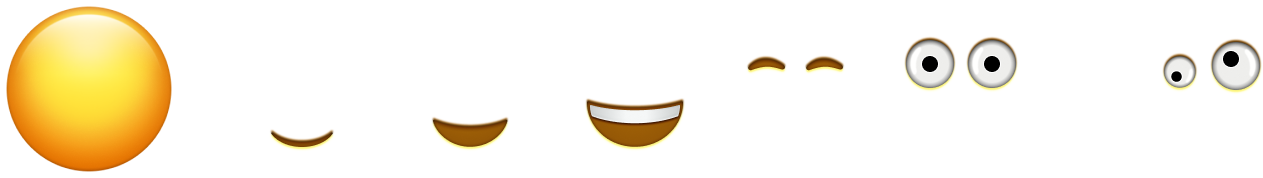
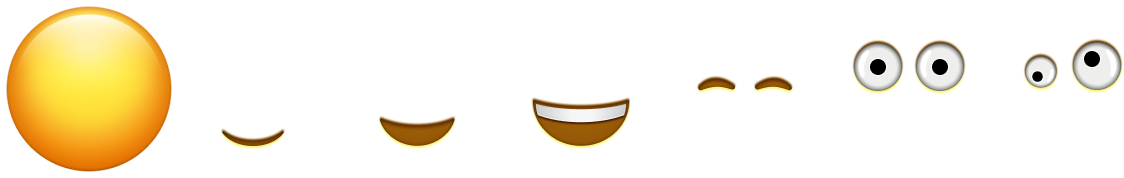
added

diff --git a/index.html b/index.html
@@ -2,61 +2,229 @@
 <html lang="en" dir="ltr">
   <head>
     <meta charset="utf-8">
-    <title></title>
+    <title>Emojis</title>
   </head>
   <style media="screen">
-  .emoji {
-    width: 172px;
-    height: 172px;
+  .emoji1 {
+    width: 178px;
+    height: 178px;
     display: inline-block;
     position: relative;
     background: url('images/e1.png');
   }
-  .emoji-m {
-    width: 160px;
-    height: 160px;
+  .emoji-m1 {
+    width: 178px;
+    height: 178px;
     display: block;
     position: absolute;
     left: 0;
     top: 0;
     background: url('images/e1.png');
-    background-position: -160px top;
+    background-position: -178px top;
   }
-  .emoji-e {
-    width: 160px;
-    height: 160px;
+  .emoji-e1 {
+    width: 178px;
+    height: 178px;
     display: block;
     position: absolute;
     background: url('images/e1.png');
     left: 0;
     top: 0;
-    background-position: -640px top;
+    background-position: -656px top;
   }
-  .smile {
+  .smile1 {
     animation: smile 1s steps(1) alternate infinite;
   }
-  .blink {
+  .blink1 {
     animation: blink 1s steps(1) alternate infinite;
   }
-  .emoji:hover .blink, .emoji:hover .smile {
+  .emoji1:hover .blink1, .emoji1:hover .smile1 {
     animation-play-state: paused;
   }
 
+  .emoji2 {
+    width: 178px;
+    height: 178px;
+    display: inline-block;
+    position: relative;
+    background: url('images/e2.png');
+  }
+  .emoji-m2 {
+    width: 178px;
+    height: 178px;
+    display: block;
+    position: absolute;
+    left: 0;
+    top: 0;
+    background: url('images/e2.png');
+    background-position: -178px top;
+  }
+  .emoji-e2 {
+    width: 178px;
+    height: 178px;
+    display: block;
+    position: absolute;
+    background: url('images/e2.png');
+    left: 0;
+    top: 0;
+    background-position: -656px top;
+  }
+  .smile2 {
+    animation: smile 1s steps(1) alternate infinite;
+  }
+  .blink2 {
+    animation: blink 1s steps(1) alternate infinite;
+  }
+  .emoji2:hover .smile2 {
+    animation-play-state: paused;
+  }
+
+  .emoji3 {
+    width: 178px;
+    height: 178px;
+    display: inline-block;
+    position: relative;
+    background: url('images/e3.png');
+  }
+  .emoji-m3 {
+    width: 178px;
+    height: 178px;
+    display: block;
+    position: absolute;
+    left: 0;
+    top: 0;
+    background: url('images/e3.png');
+    background-position: -178px top;
+  }
+  .emoji-e3 {
+    width: 178px;
+    height: 178px;
+    display: block;
+    position: absolute;
+    background: url('images/e3.png');
+    left: 0;
+    top: 0;
+    background-position: -656px top;
+  }
+  .smile3 {
+    animation: smile 1s steps(1) alternate infinite;
+  }
+  .blink3 {
+    animation: blink 1s steps(1) alternate infinite;
+  }
+  .emoji3:hover .blink3, .emoji3:hover .smile3 {
+    animation-play-state: paused;
+}
+
+.emoji4 {
+  width: 178px;
+  height: 178px;
+  display: inline-block;
+  position: relative;
+  background: url('images/e4.png');
+}
+.emoji-m4 {
+  width: 178px;
+  height: 178px;
+  display: block;
+  position: absolute;
+  left: 0;
+  top: 0;
+  background: url('images/e4.png');
+  background-position: -178px top;
+}
+.emoji-e4 {
+  width: 178px;
+  height: 178px;
+  display: block;
+  position: absolute;
+  background: url('images/e4.png');
+  left: 0;
+  top: 0;
+  background-position: -656px top;
+}
+.smile4 {
+  animation: smile 1s steps(1) alternate infinite;
+}
+.blink4 {
+  animation: blink 1s steps(1) alternate infinite;
+}
+.emoji4:hover .blink4 {
+  animation-play-state: paused;
+}
+
+.emoji5 {
+  width: 178px;
+  height: 178px;
+  display: inline-block;
+  position: relative;
+  background: url('images/e5.png');
+}
+.emoji-m5 {
+  width: 178px;
+  height: 178px;
+  display: block;
+  position: absolute;
+  left: 0;
+  top: 0;
+  background: url('images/e5.png');
+  background-position: -178px top;
+}
+.emoji-e5 {
+  width: 178px;
+  height: 178px;
+  display: block;
+  position: absolute;
+  background: url('images/e5.png');
+  left: 0;
+  top: 0;
+  background-position: -656px top;
+}
+.smile5 {
+  animation: smile 1s steps(1) alternate infinite;
+}
+.blink5 {
+  animation: blink 1s steps(1) alternate infinite;
+}
+.emoji5:hover .blink5, .emoji5:hover .smile5 {
+  animation-play-state: paused;
+}
+
   @keyframes smile {
-    0% {background-position: -212px; top;}
-    33% {background-position: -380px; top;}
-    66% {background-position: -544px; top;}
+    0% {background-position: -164px; top;}
+    33% {background-position: -328px; top;}
+    66% {background-position: -492px; top;}
   }
   @keyframes blink {
-    0% {background-position: -706px; top;}
-    33% {background-position: -870px; top;}
-    66% {background-position: -1112px; top;}
+    0% {background-position: -656px; top;}
+    33% {background-position: -820px; top;}
+    66% {background-position: -984px; top;}
   }
   </style>
   <body>
-    <div class="emoji">
-      <div class="emoji-m smile"></div>
-      <div class="emoji-e blink"></div>
+    <div class="emoji1">
+      <div class="emoji-m1 smile1"></div>
+      <div class="emoji-e1 blink1"></div>
+    </div>
+
+    <div class="emoji2">
+      <div class="emoji-m2 smile2"></div>
+      <div class="emoji-e2 blink2"></div>
+    </div>
+
+    <div class="emoji3">
+      <div class="emoji-m3 smile3"></div>
+      <div class="emoji-e3 blink3"></div>
+    </div>
+
+    <div class="emoji4">
+      <div class="emoji-m4 smile4"></div>
+      <div class="emoji-e4 blink4"></div>
+    </div>
+
+    <div class="emoji5">
+      <div class="emoji-m5 smile5"></div>
+      <div class="emoji-e5 blink5"></div>
     </div>
   </body>
 </html>
